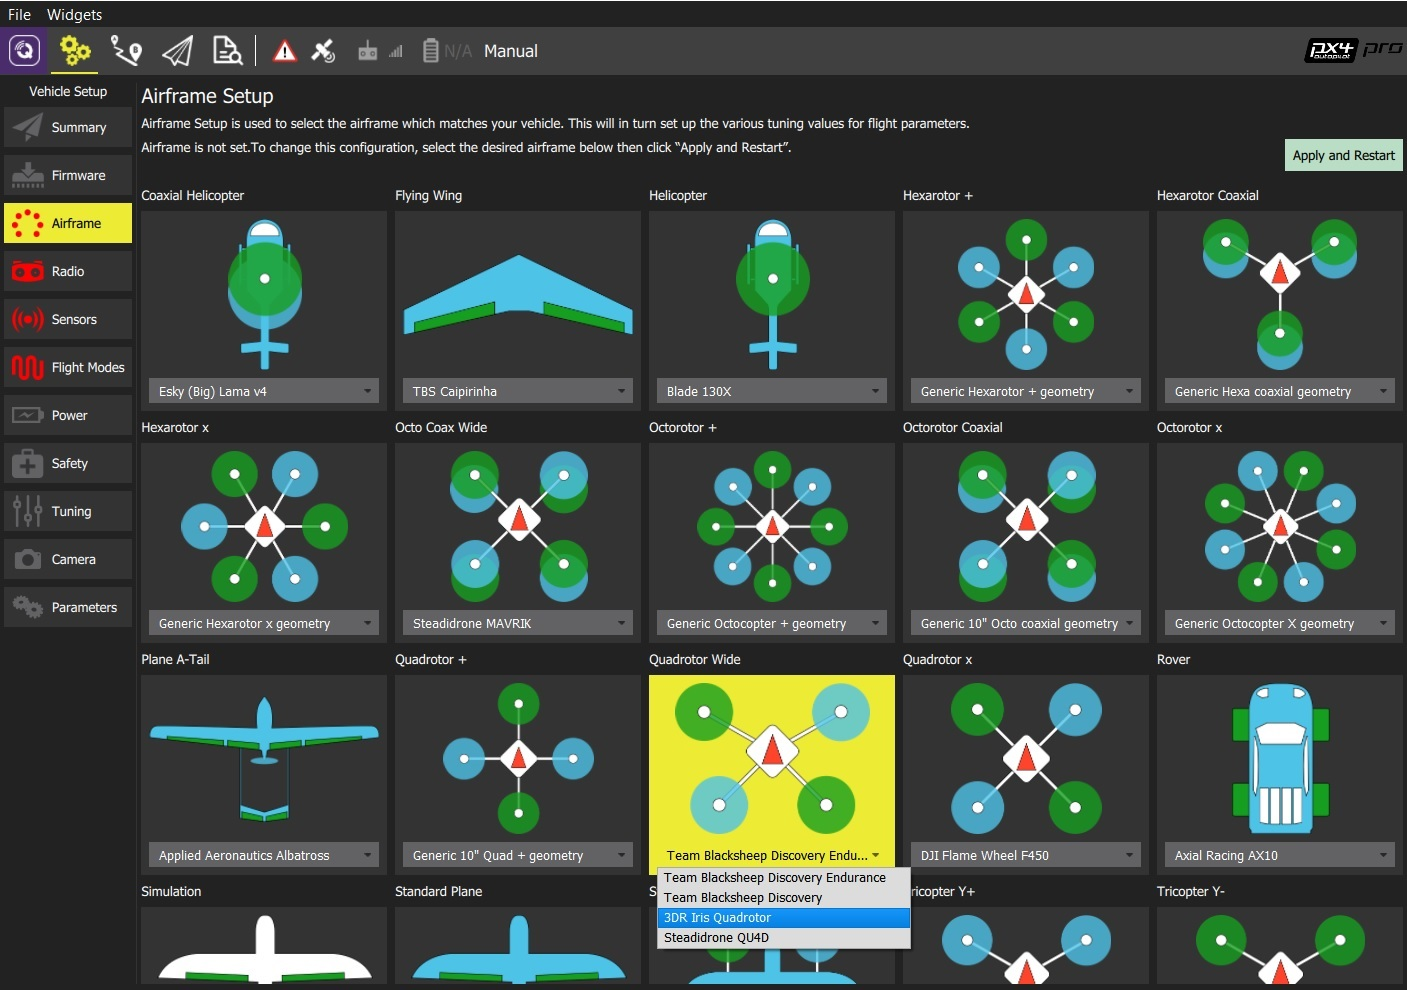
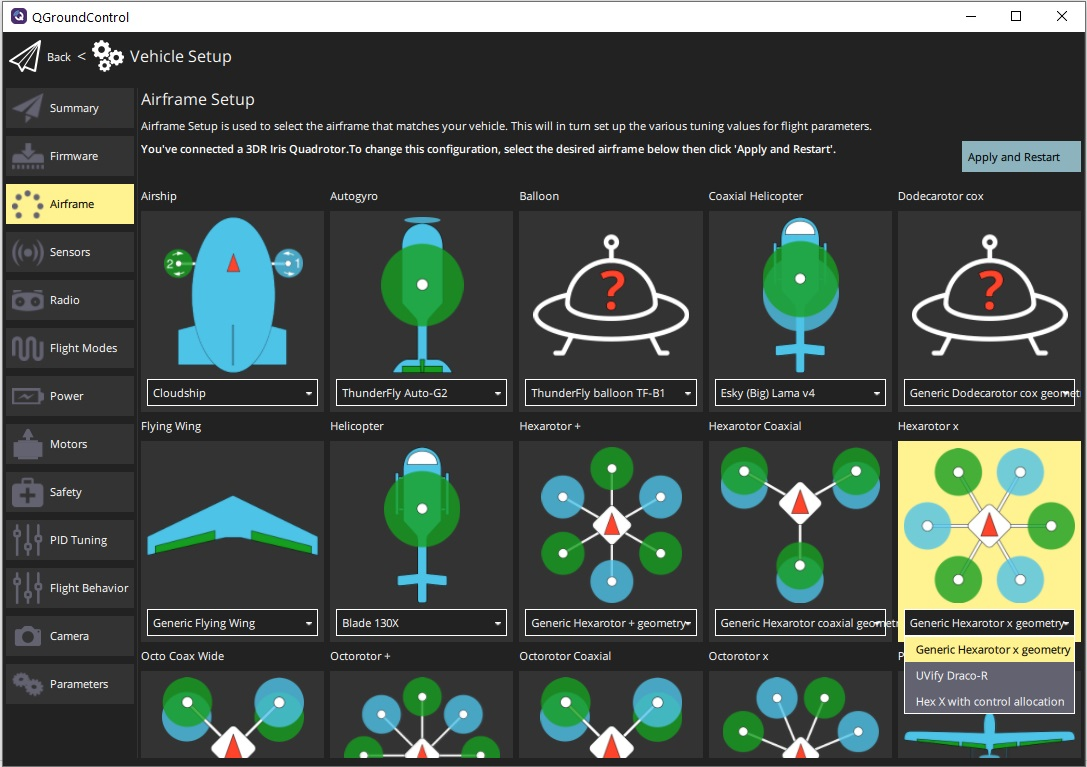
Update menu to refer to App menu. Also update image

diff --git a/en/SetupView/airframe_px4.md b/en/SetupView/airframe_px4.md
@@ -2,12 +2,13 @@
 
 To select the airframe in PX4:
 
-1. First select the **Gear** icon (Vehicle Setup) in the top toolbar and then **Airframe** in the sidebar.
+1. Start *QGroundControl* and connect the vehicle.
+1. Select **QGroundControl icon > Vehicle Setup > Airframe** (sidebar) to open *Airframe Setup*.
 1. Select the broad vehicle group/type that matches your airframe and then use the dropdown within the group to choose the airframe that best matches your vehicle. 
    
    ![Airframe options](../../assets/setup/airframe_px4/airframe_px4.jpg)
    
-   The example above shows *3DR Iris Quadrotor* selected from the *Quadrotor Wide* group.
+   The example above shows *Generic Hexarotor X geometry* selected from the *Hexarotor X* group.
 
 1. Click the **Apply and Restart** button to the top right of the screen.
 1. Click **Apply** in the following prompt to save the settings and restart the vehicle.
